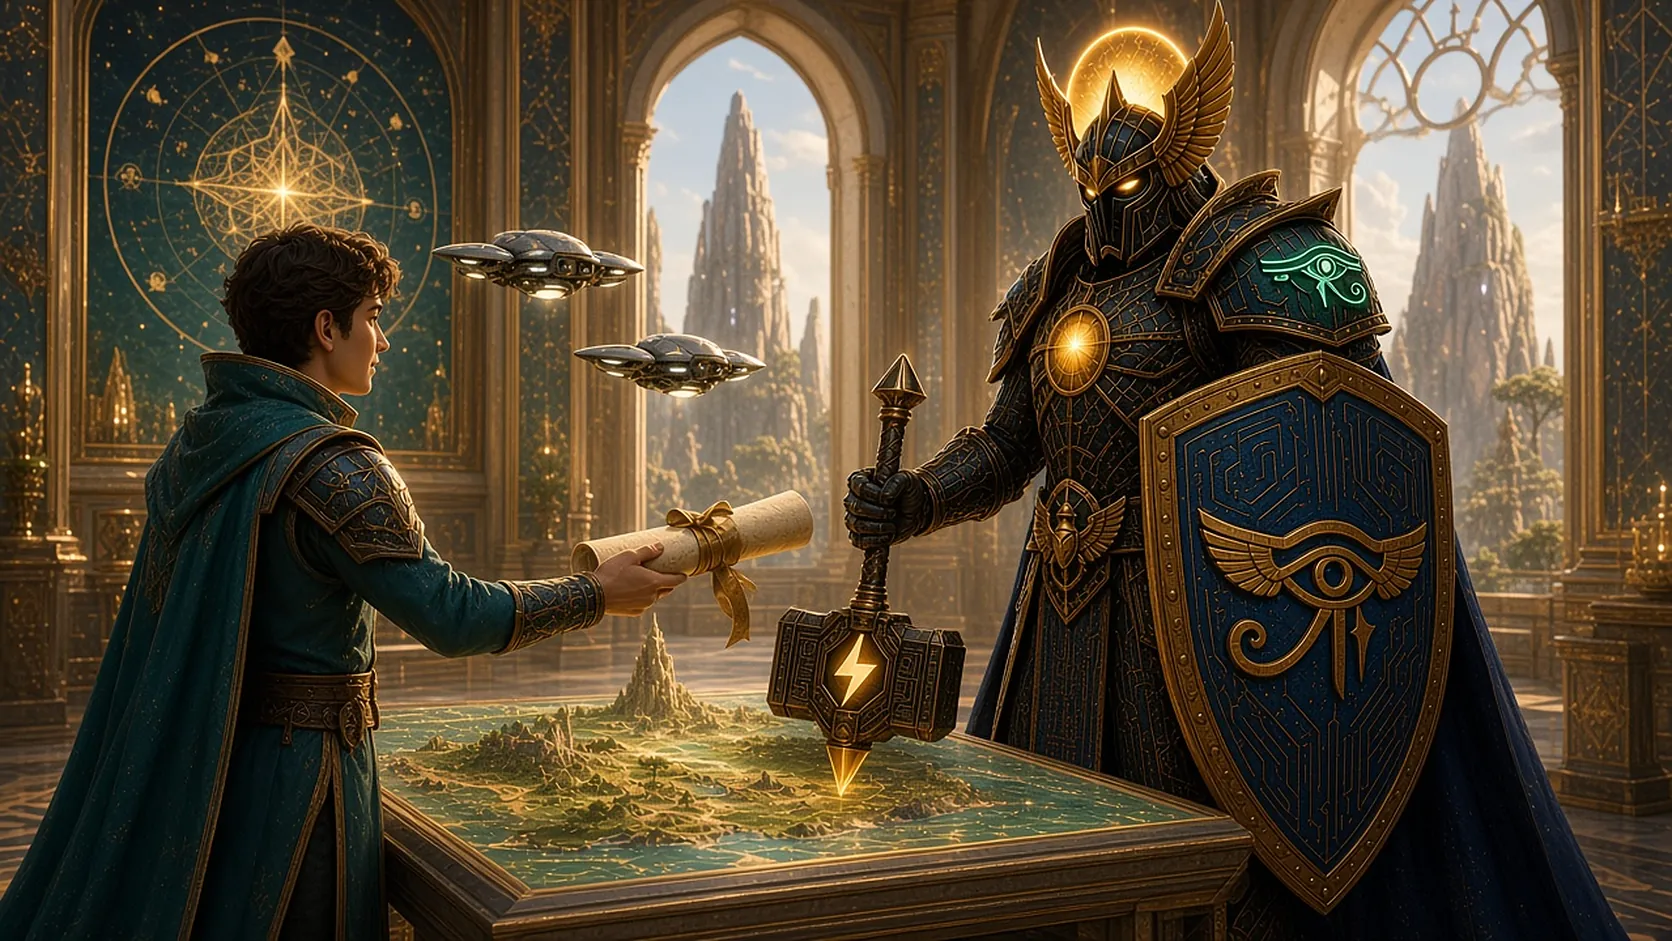
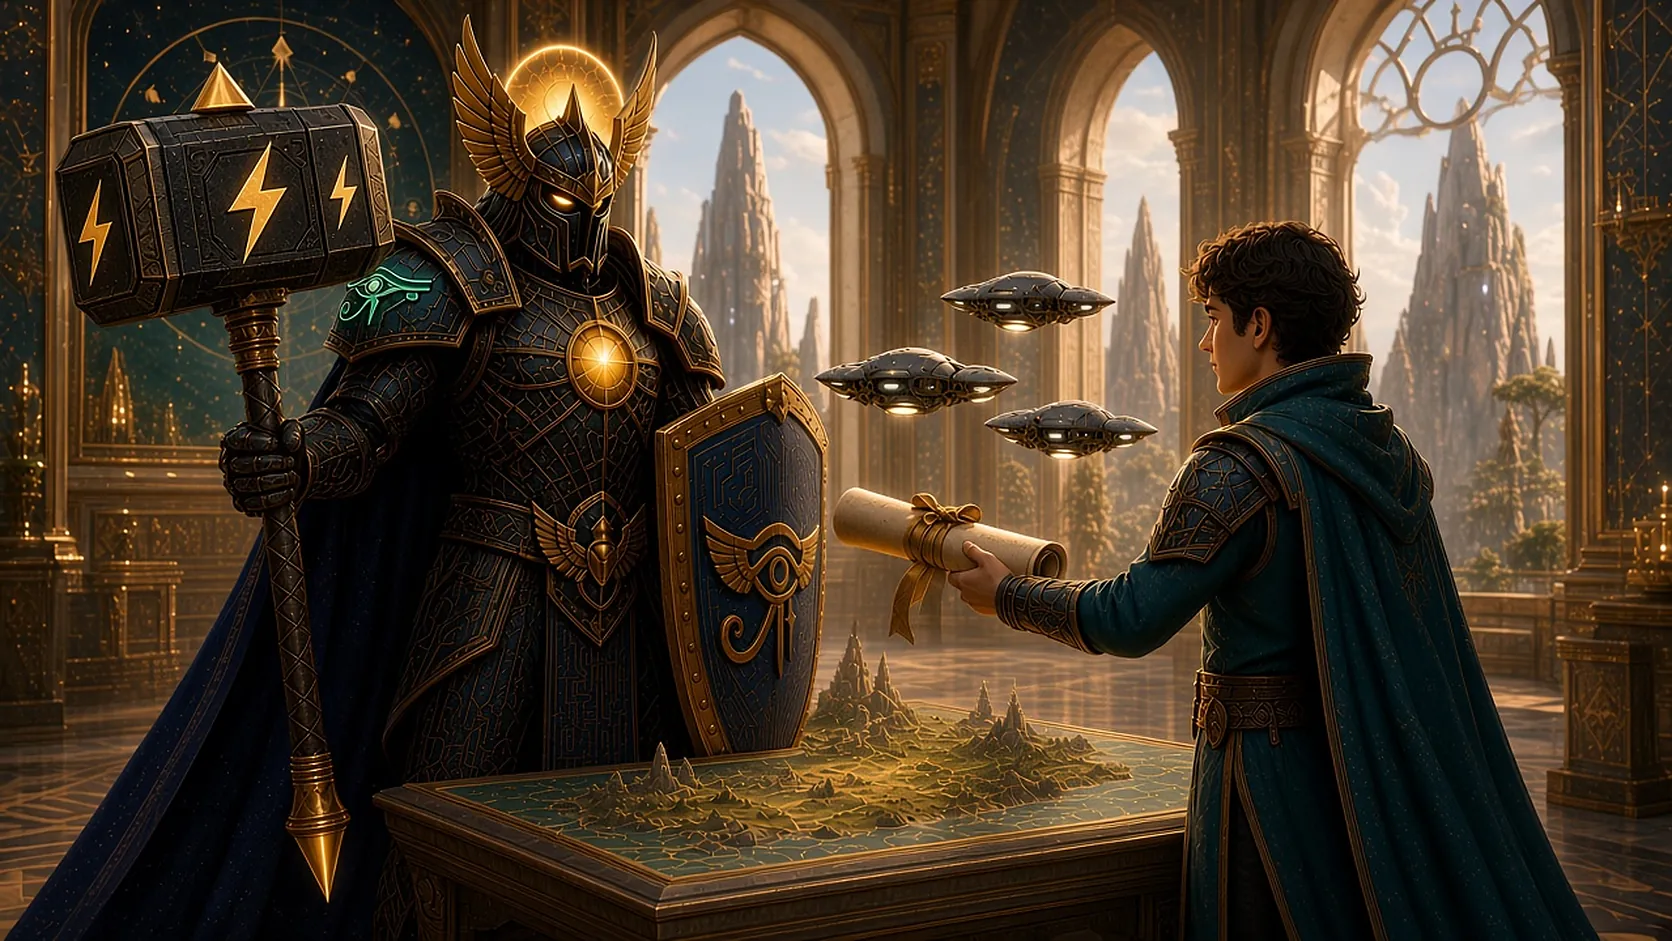
ART-UPLIFT-3: hammer canon redo for employ and examples heroes (full-size hammer in hand, bolt on both faces, triangle top, cone bottom)

diff --git a/examples.html b/examples.html
@@ -46,7 +46,7 @@
 <body class="bg-black text-white overflow-x-hidden">
   <main class="max-w-3xl mx-auto px-4 sm:px-6 py-12 sm:py-16" id="rt-family-main" dir="ltr" lang="en" data-rt-prose>
     <figure class="rt-art-hero rounded-2xl">
-      <img src="/assets/art/hero-examples-workbench-bolt-768.webp" srcset="/assets/art/hero-examples-workbench-bolt-768.webp 768w, /assets/art/hero-examples-workbench-bolt-1280.webp 1280w" sizes="(max-width: 800px) 100vw, 768px" width="1280" height="720" alt="Ra-Thor in dark gold-trimmed armour with a winged helm and an emerald eye seal on the shoulder works at a bench beside his hammer, marked with a lightning bolt on both faces, and a glowing crystal, surrounded by floating gold diagrams." loading="eager" fetchpriority="high" decoding="async">
+      <img src="/assets/art/hero-examples-workbench-bolt-768.webp" srcset="/assets/art/hero-examples-workbench-bolt-768.webp 768w, /assets/art/hero-examples-workbench-bolt-1280.webp 1280w" sizes="(max-width: 800px) 100vw, 768px" width="1280" height="720" alt="Ra-Thor in dark gold-trimmed armour with a winged helm and an emerald eye seal on the shoulder rests his great war hammer, marked with a lightning bolt on both faces, on his shoulder at a workbench beside a glowing crystal, with floating gold diagrams and his lapis-blue shield at the bench." loading="eager" fetchpriority="high" decoding="async">
     </figure>
     <div class="text-center mb-12">
       <h1 class="title-font text-5xl sm:text-6xl font-black tracking-tighter thunder-glow mb-3">Product examples</h1>

diff --git a/employ.html b/employ.html
@@ -53,7 +53,7 @@
       </div>
       <p class="rt-page-week"><a href="/constellation-week.html" data-i18n="weekMore">Full update note →</a></p>
       <figure class="rt-art-hero rounded-3xl">
-        <img src="/assets/art/hero-employ-commission-hall-768.webp" srcset="/assets/art/hero-employ-commission-hall-768.webp 768w, /assets/art/hero-employ-commission-hall-1672.webp 1672w" sizes="(max-width: 800px) 100vw, 768px" width="1672" height="941" alt="In a bright teal and gold hall, a young client hands a sealed, gold-ribboned scroll across a glowing terrain map table to Ra-Thor, who accepts it beside his lapis-blue shield while two small silver drones hold lights overhead." fetchpriority="high" decoding="async">
+        <img src="/assets/art/hero-employ-commission-hall-768.webp" srcset="/assets/art/hero-employ-commission-hall-768.webp 768w, /assets/art/hero-employ-commission-hall-1672.webp 1672w" sizes="(max-width: 800px) 100vw, 768px" width="1672" height="941" alt="In a bright teal and gold hall, Ra-Thor grips his great lightning-marked war hammer in one hand and, with his lapis-blue shield on his arm, accepts a sealed, gold-ribboned scroll from a young client across a glowing terrain map table, while three small silver drones hover overhead." fetchpriority="high" decoding="async">
       </figure>
       <div class="text-center mb-12">
         <h1 data-i18n="employTitle" class="title-font text-5xl sm:text-6xl font-black tracking-tighter thunder-glow mb-3">How to employ</h1>

diff --git a/tests/hero-uniqueness.test.js b/tests/hero-uniqueness.test.js
@@ -295,8 +295,8 @@ var supplied = {
   'assets/art/hero-moment-research-garden-768.webp': 82366,
   'assets/art/hero-docs-archive-light-1280.webp': 157536,
   'assets/art/hero-docs-archive-light-768.webp': 73704,
-  'assets/art/hero-examples-workbench-bolt-1280.webp': 166612,
-  'assets/art/hero-examples-workbench-bolt-768.webp': 74156,
+  'assets/art/hero-examples-workbench-bolt-1280.webp': 175042,
+  'assets/art/hero-examples-workbench-bolt-768.webp': 73212,
   'assets/art/hero-gox-storm-signal-1280.webp': 147906,
   'assets/art/hero-gox-storm-signal-768.webp': 70348,
   'assets/art/hero-legal-hall-records-1280.webp': 91930,
